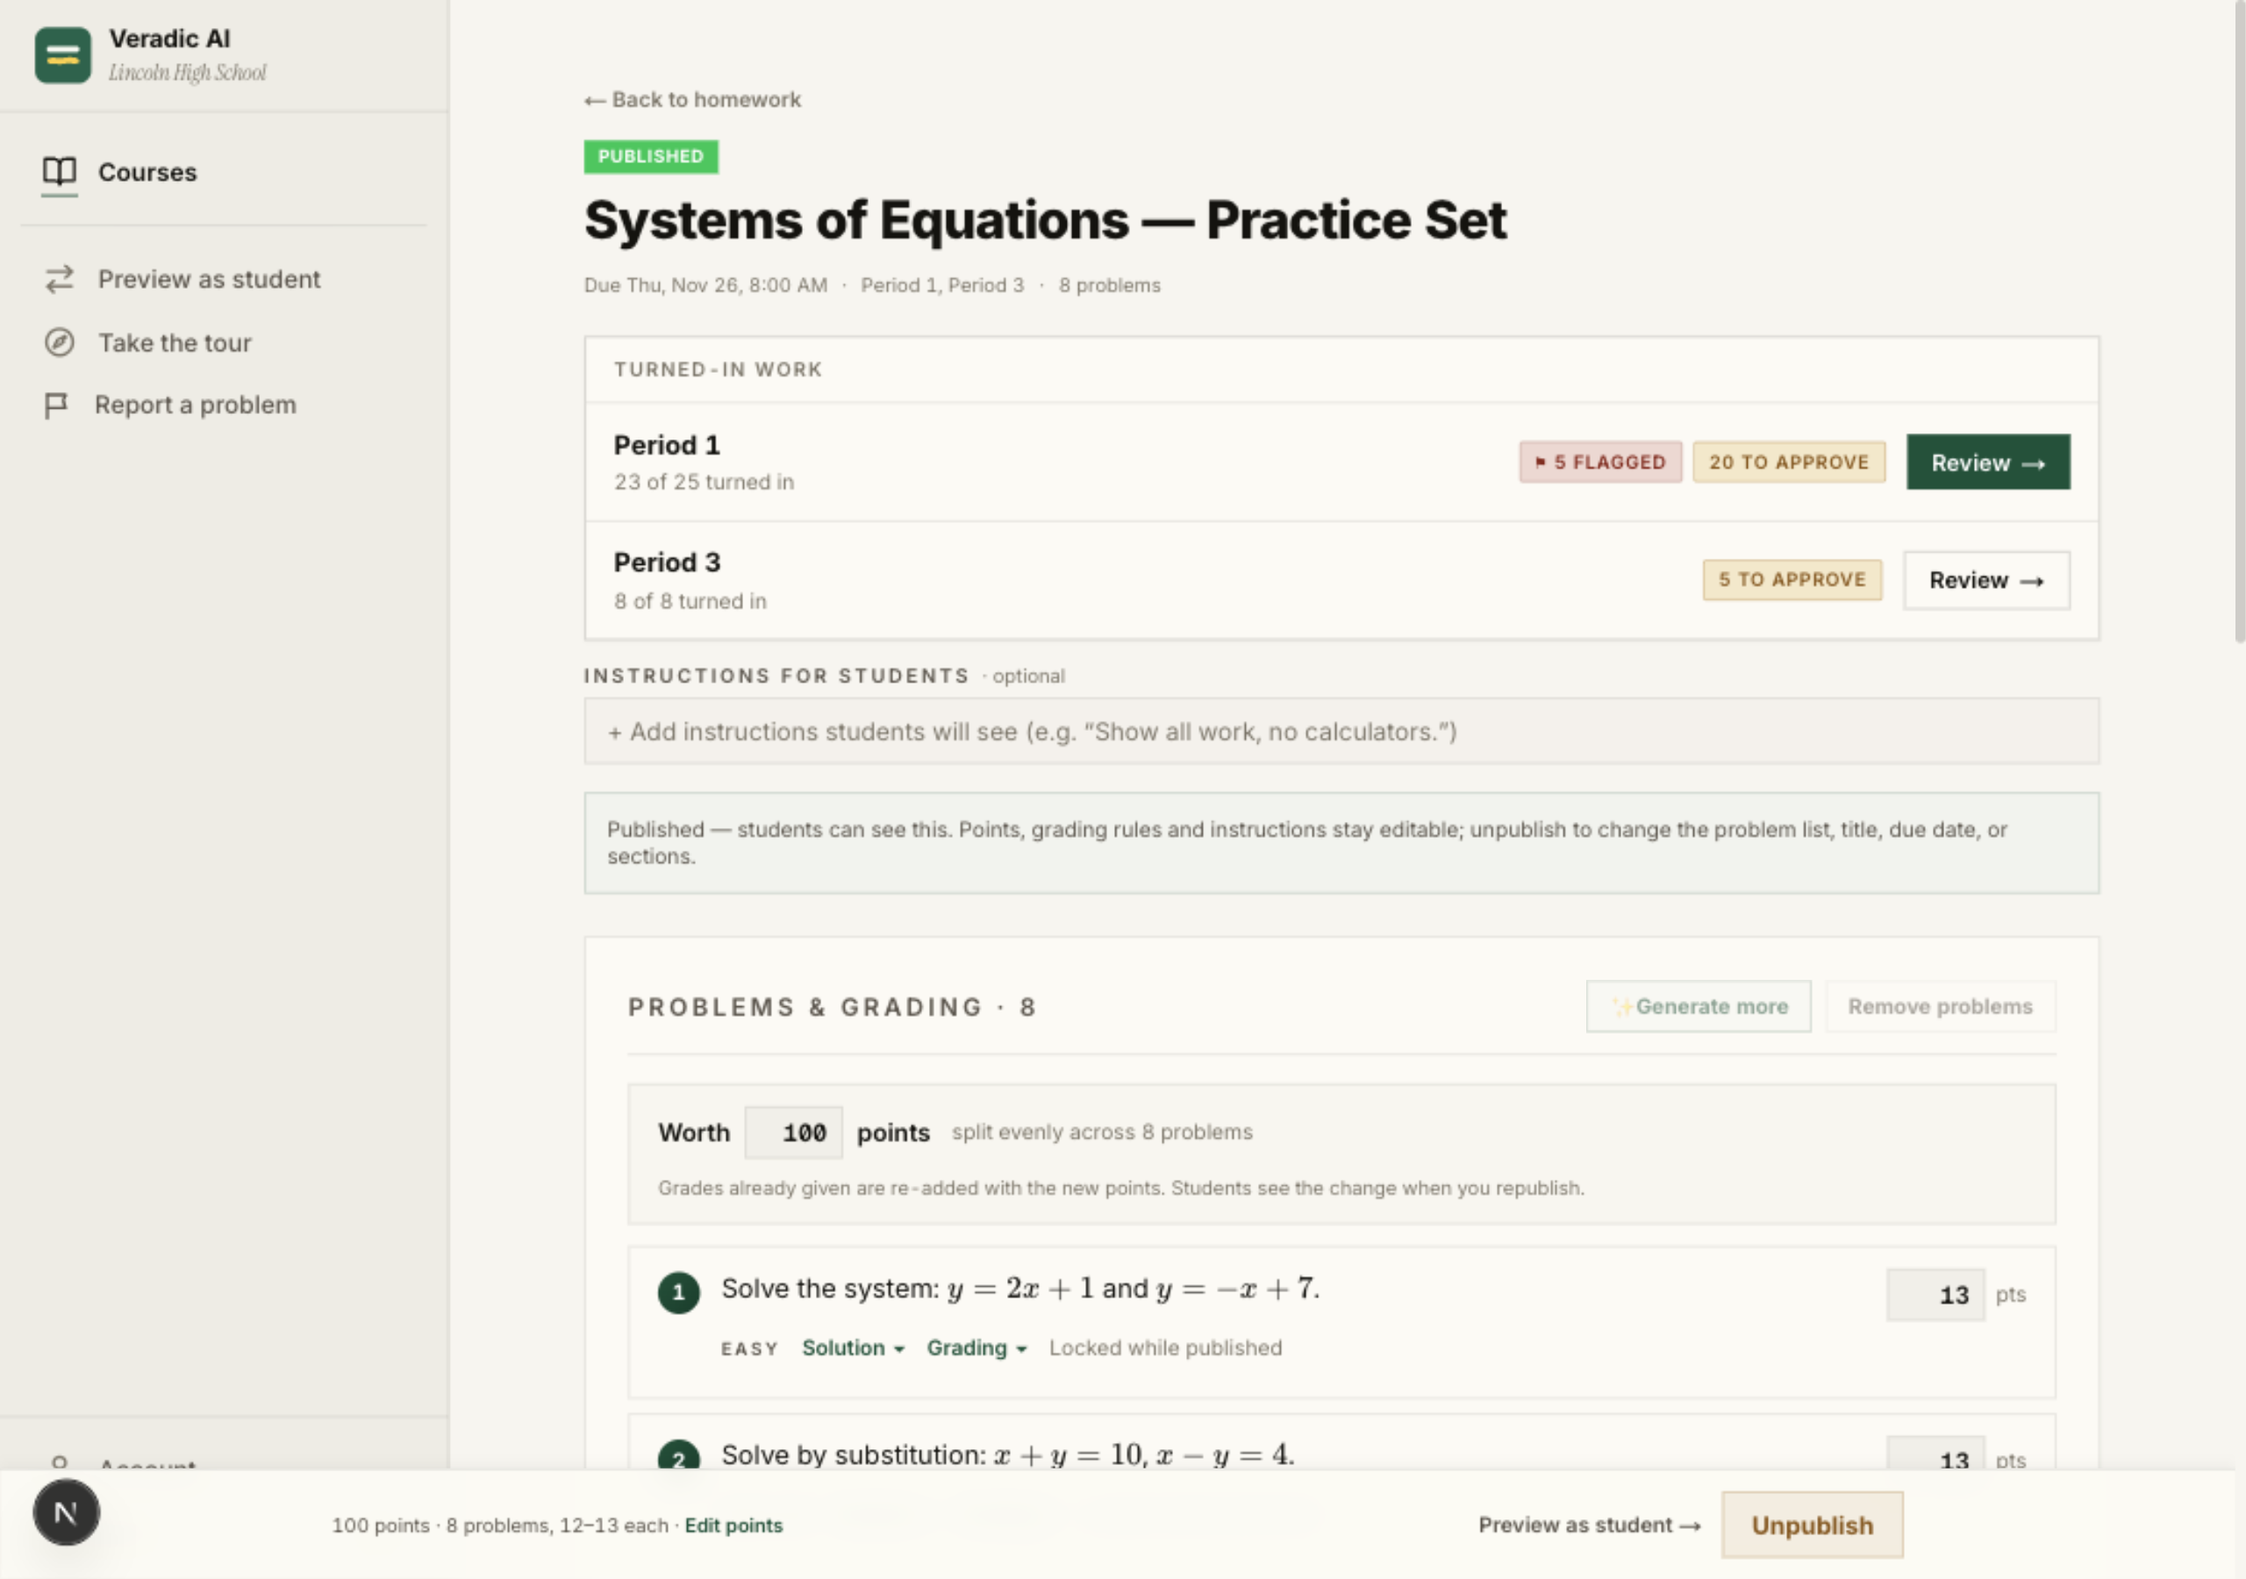
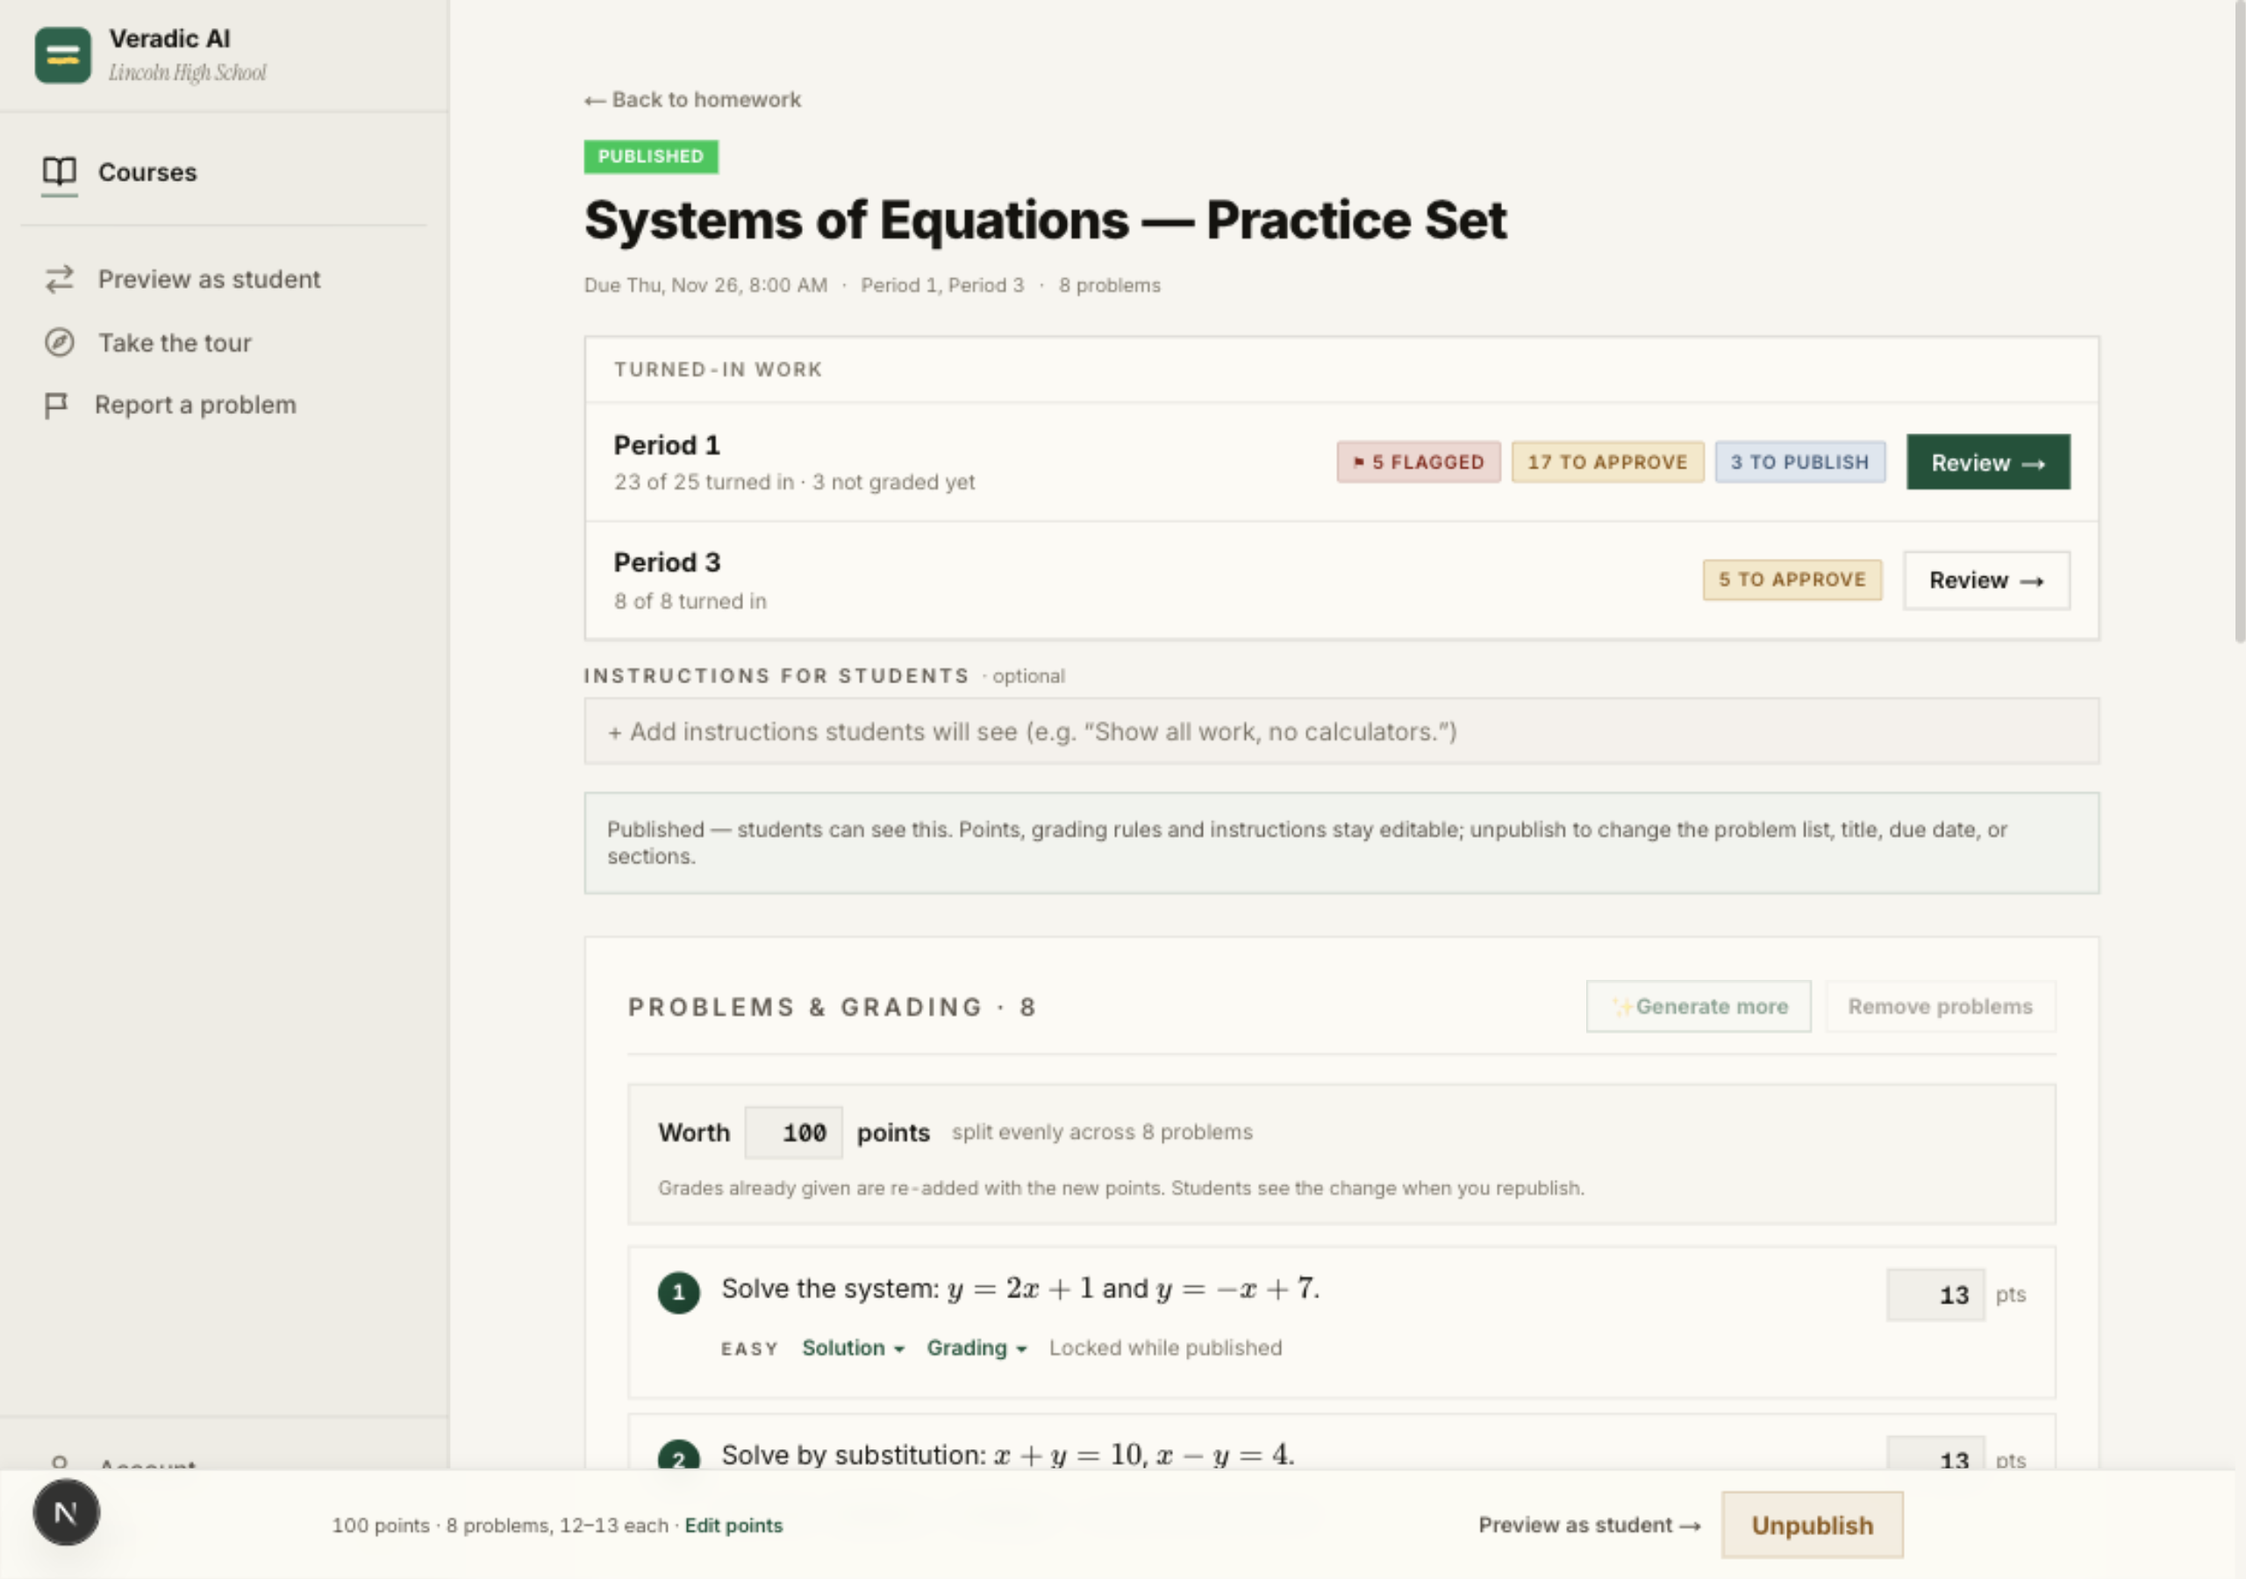
fix(homework): band counts ungraded work and splits to-approve from to-publish
From cold review: the band counted only graded work, so a section of
ungraded submissions read "all grades published". It now shows "N not
graded yet", says "all grades published" only when every turned-in
grade is out and none edited since, and — with a new to_publish count
on the submissions inbox — splits "to approve" (still wants Approve ✓)
from "to publish", the same split as the home queue. "1 student".

Changed region(s): [[0.5938, 0.28, 0.8438, 0.3111], [0.375, 0.28, 0.4375, 0.3111]]

diff --git a/web/src/app/(app)/school/teacher/courses/[id]/homework/[hwId]/_components/section-review-band.tsx b/web/src/app/(app)/school/teacher/courses/[id]/homework/[hwId]/_components/section-review-band.tsx
@@ -3,13 +3,7 @@
 import Link from "next/link";
 import type { SubmissionsInboxRow } from "@/lib/api";
 import { StatusPill } from "@/components/school/teacher/_pieces/status-pill";
-
-/** Grades in this section waiting on the teacher before students see
- *  them: graded and never published, or published and edited since —
- *  the section's share of the review page's "Publish N grades". */
-export function toApproveCount(r: SubmissionsInboxRow): number {
-  return r.to_grade + r.dirty;
-}
+import { sectionCounts } from "../_lib/section-counts";
 
 /** Show the band once any section has turned-in work; before that the
  *  slim "waiting for first submission" strip says all there is to say. */
@@ -35,7 +29,7 @@ export function SectionReviewBand({
   );
   // The first section with something waiting gets the primary button —
   // that's where her next decision is.
-  const leadId = sorted.find((r) => toApproveCount(r) + r.flagged > 0)?.section_id;
+  const leadId = sorted.find((r) => r.submitted > 0 && !sectionCounts(r).allOut)?.section_id;
 
   return (
     <section
@@ -47,9 +41,9 @@ export function SectionReviewBand({
       </h2>
       <ul>
         {sorted.map((r, i) => {
-          const toApprove = toApproveCount(r);
-          const waiting = toApprove + r.flagged > 0;
+          const { toApprove, toPublish, notGraded, allOut } = sectionCounts(r);
           const lead = r.section_id === leadId;
+          const students = `${r.total_students} ${r.total_students === 1 ? "student" : "students"}`;
           return (
             <li
               key={r.section_id}
@@ -61,9 +55,10 @@ export function SectionReviewBand({
                 <p className="text-[15px] font-bold text-text-primary">{r.section_name}</p>
                 <p className="mt-0.5 text-[12px] text-text-muted">
                   {r.submitted === 0
-                    ? `Nothing turned in yet · ${r.total_students} students`
+                    ? `Nothing turned in yet · ${students}`
                     : `${r.submitted} of ${r.total_students} turned in`}
-                  {r.submitted > 0 && !waiting && " · all grades published"}
+                  {allOut && " · all grades published"}
+                  {notGraded > 0 && ` · ${notGraded} not graded yet`}
                 </p>
               </div>
               <div className="flex flex-wrap items-center gap-1.5">
@@ -71,6 +66,7 @@ export function SectionReviewBand({
                   <StatusPill tone="red" icon="⚑" label={`${r.flagged} flagged`} />
                 )}
                 {toApprove > 0 && <StatusPill tone="amber" label={`${toApprove} to approve`} />}
+                {toPublish > 0 && <StatusPill tone="info" label={`${toPublish} to publish`} />}
               </div>
               <Link
                 href={`/school/teacher/courses/${courseId}/homework/${assignmentId}/sections/${r.section_id}/review`}
@@ -81,7 +77,7 @@ export function SectionReviewBand({
                     : "border border-border bg-surface text-text-primary hover:border-primary/40 hover:text-primary"
                 }`}
               >
-                {waiting || r.submitted === 0 ? "Review" : "Open"}
+                {allOut ? "Open" : "Review"}
                 <span aria-hidden>→</span>
               </Link>
             </li>

diff --git a/web/src/app/(app)/school/teacher/courses/[id]/homework/[hwId]/_lib/section-counts.test.ts b/web/src/app/(app)/school/teacher/courses/[id]/homework/[hwId]/_lib/section-counts.test.ts
@@ -1,0 +1,40 @@
+// The homework page's per-section review counts.
+//   cd into this folder, then: node --experimental-strip-types section-counts.test.ts
+import assert from "node:assert/strict";
+import { test } from "node:test";
+import type { SubmissionsInboxRow } from "@/lib/api";
+import { sectionCounts } from "./section-counts.ts";
+
+const row = (o: Partial<SubmissionsInboxRow>): SubmissionsInboxRow => ({
+  assignment_id: "hw",
+  assignment_title: "HW",
+  section_id: "p1",
+  section_name: "Period 1",
+  due_at: null,
+  total_students: 25,
+  submitted: 0,
+  flagged: 0,
+  to_grade: 0,
+  dirty: 0,
+  published: 0,
+  to_publish: 0,
+  ...o,
+});
+
+test("ungraded work is counted, never read as all published", () => {
+  const c = sectionCounts(row({ submitted: 5 }));
+  assert.deepEqual(c, { toApprove: 0, toPublish: 0, notGraded: 5, allOut: false });
+});
+
+test("to approve vs to publish split by approval; dirty grades count as waiting", () => {
+  // 20 turned in: 12 graded unreleased, 6 published (1 edited since),
+  // 2 not graded; 5 of the 13 waiting are already approved.
+  const c = sectionCounts(row({ submitted: 20, to_grade: 12, published: 6, dirty: 1, to_publish: 5 }));
+  assert.deepEqual(c, { toApprove: 8, toPublish: 5, notGraded: 2, allOut: false });
+});
+
+test("all out only when every turned-in grade is published and none edited since", () => {
+  assert.equal(sectionCounts(row({ submitted: 8, published: 8 })).allOut, true);
+  assert.equal(sectionCounts(row({ submitted: 8, published: 8, dirty: 1, to_publish: 1 })).allOut, false);
+  assert.equal(sectionCounts(row({ submitted: 0 })).allOut, false);
+});

diff --git a/web/src/app/(app)/school/teacher/courses/[id]/homework/[hwId]/_lib/section-counts.ts b/web/src/app/(app)/school/teacher/courses/[id]/homework/[hwId]/_lib/section-counts.ts
@@ -1,0 +1,16 @@
+import type { SubmissionsInboxRow } from "@/lib/api";
+
+/** What's waiting on the teacher in one section, as the review page
+ *  and the home queue count it:
+ *  toApprove — grades not yet out that still want Approve ✓
+ *  toPublish — grades not yet out, already approved: only Publish left
+ *              (with toApprove, the section's share of "Publish N grades")
+ *  notGraded — turned in with no grade yet (the AI hasn't reached it, it
+ *              can't, or it's waiting on the student) */
+export function sectionCounts(r: SubmissionsInboxRow) {
+  const toPublish = r.to_publish;
+  const toApprove = Math.max(0, r.to_grade + r.dirty - toPublish);
+  const notGraded = Math.max(0, r.submitted - r.published - r.to_grade);
+  const allOut = r.submitted > 0 && r.published === r.submitted && r.dirty === 0;
+  return { toApprove, toPublish, notGraded, allOut };
+}

diff --git a/web/src/lib/api.ts b/web/src/lib/api.ts
@@ -1387,6 +1387,10 @@ export interface SubmissionsInboxRow {
   dirty: number;
   /** Published — students can see these grades. */
   published: number;
+  /** Of `to_grade + dirty`, the grades already approved (a hand grade,
+   *  an Approve ✓, or an approved grade edited since): only Publish is
+   *  left for these. */
+  to_publish: number;
 }
 
 /** Why a submission is in the teacher's "Needs you today" triage queue.

diff --git a/api/routes/teacher_submissions_inbox.py b/api/routes/teacher_submissions_inbox.py
@@ -42,7 +42,7 @@ async def submissions_inbox(
     Row shape:
       { assignment_id, assignment_title, section_id, section_name,
         due_at, total_students, submitted, flagged, to_grade, dirty,
-        published }
+        published, to_publish }
 
     Sort + client-side: the frontend orders by urgency or due date and
     renders pills per count.
@@ -107,26 +107,32 @@ async def submissions_inbox(
     # (not timestamp-based) so flipping a grade back to its original
     # value doesn't wrongly mark it dirty. `breakdown` is JSON, so
     # cast to jsonb to get structural equality.
-    dirty_expr = func.sum(
+    is_dirty = (SubmissionGrade.grade_published_at.is_not(None)) & (
+        SubmissionGrade.final_score.is_distinct_from(
+            SubmissionGrade.published_final_score,
+        )
+        | SubmissionGrade.teacher_notes.is_distinct_from(
+            SubmissionGrade.published_teacher_notes,
+        )
+        | SubmissionGrade.breakdown.cast(JSONB).is_distinct_from(
+            SubmissionGrade.published_breakdown.cast(JSONB),
+        )
+    )
+    dirty_expr = func.sum(case((is_dirty, 1), else_=0)).cast(Integer).label("dirty")
+    # Of the grades waiting to go out, the ones already approved — a hand
+    # grade, an Approve ✓, or an approved grade edited since — so only
+    # Publish is left. The rest still want Approve ✓.
+    to_publish_expr = func.sum(
         case(
             (
-                (SubmissionGrade.grade_published_at.is_not(None))
-                & (
-                    SubmissionGrade.final_score.is_distinct_from(
-                        SubmissionGrade.published_final_score,
-                    )
-                    | SubmissionGrade.teacher_notes.is_distinct_from(
-                        SubmissionGrade.published_teacher_notes,
-                    )
-                    | SubmissionGrade.breakdown.cast(JSONB).is_distinct_from(
-                        SubmissionGrade.published_breakdown.cast(JSONB),
-                    )
-                ),
+                SubmissionGrade.final_score.is_not(None)
+                & SubmissionGrade.reviewed_at.is_not(None)
+                & (SubmissionGrade.grade_published_at.is_(None) | is_dirty),
                 1,
             ),
             else_=0,
         ),
-    ).cast(Integer).label("dirty")
+    ).cast(Integer).label("to_publish")
     published_expr = func.sum(
         case(
             (SubmissionGrade.grade_published_at.is_not(None), 1),
@@ -155,6 +161,7 @@ async def submissions_inbox(
             dirty_expr,
             published_expr,
             flagged_expr,
+            to_publish_expr,
         )
         .select_from(Submission)
         .outerjoin(SubmissionGrade, SubmissionGrade.submission_id == Submission.id)
@@ -183,6 +190,7 @@ async def submissions_inbox(
             "dirty": int(r.dirty or 0),
             "published": int(r.published or 0),
             "flagged": int(r.flagged or 0),
+            "to_publish": int(r.to_publish or 0),
         }
         for r in agg_rows
     }
@@ -202,5 +210,6 @@ async def submissions_inbox(
             "to_grade": counts.get("to_grade", 0),
             "dirty": counts.get("dirty", 0),
             "published": counts.get("published", 0),
+            "to_publish": counts.get("to_publish", 0),
         })
     return {"rows": rows}

diff --git a/tests/test_submissions_inbox_to_publish.py b/tests/test_submissions_inbox_to_publish.py
@@ -1,0 +1,55 @@
+"""GET /v1/teacher/courses/{id}/submissions-inbox — `to_publish`: of the
+grades waiting to go out, the ones already approved, so only Publish is
+left. The homework page's review band splits "to approve" from "to
+publish" with it, the same split the home queue makes."""
+
+from __future__ import annotations
+
+from datetime import UTC, datetime
+
+from httpx import AsyncClient
+
+from api.database import get_session_factory
+from api.models.assignment import SubmissionGrade
+from tests.conftest import auth_headers as _auth
+from tests.test_teacher_needs_attention import _add_submission, _publish_hw, _seed
+
+
+async def test_to_publish_counts_only_approved_unreleased_grades(client: AsyncClient) -> None:
+    w = await _seed()
+    hw = await _publish_hw(w, due_at=None)
+    now = datetime.now(UTC)
+    # One enrolled student, so each grade state gets its own homework.
+    states = {
+        "ai_unapproved": dict(final_score=80.0),
+        "approved": dict(final_score=90.0, reviewed_at=now),
+        "approved_published_clean": dict(
+            final_score=70.0, reviewed_at=now, grade_published_at=now, published_final_score=70.0,
+        ),
+        "approved_published_edited": dict(
+            final_score=75.0, reviewed_at=now, grade_published_at=now, published_final_score=70.0,
+        ),
+    }
+    expected = {
+        "ai_unapproved": 0,
+        "approved": 1,
+        "approved_published_clean": 0,
+        "approved_published_edited": 1,
+    }
+    hws = {"ai_unapproved": hw}
+    for name in list(states)[1:]:
+        hws[name] = await _publish_hw(w, due_at=None, title=name)
+    async with get_session_factory()() as s:
+        for name, fields in states.items():
+            sub_id = await _add_submission(w, hws[name])
+            s.add(SubmissionGrade(submission_id=sub_id, **fields))
+        await s.commit()
+
+    r = await client.get(
+        f"/v1/teacher/courses/{w['course_id']}/submissions-inbox",
+        headers=_auth(w["teacher_token"]),
+    )
+    assert r.status_code == 200, r.text
+    by_hw = {row["assignment_id"]: row for row in r.json()["rows"]}
+    got = {name: by_hw[str(hws[name])]["to_publish"] for name in states}
+    assert got == expected
